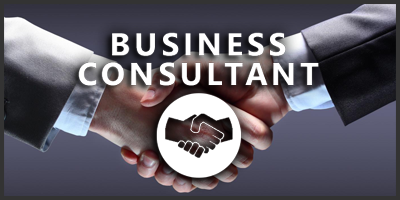
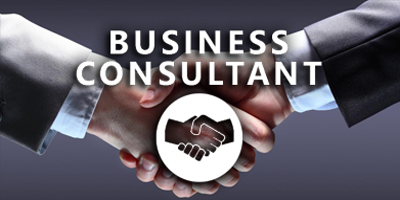
images

diff --git a/index.html b/index.html
@@ -392,22 +392,31 @@
 			<li>
 				<ul class="events-list" data-scrollreveal="enter right after 0.15s over 3s">
 					<li class="event">
-						<strong>WED JAN 20, 2016 - BOWLING BASH</strong>
-							<p class="event-description">ALL DISTRICTS ARE INVITED TO 300 ON FOOTHILL BLVD. IN ARCADIA FOR A FRIENDLY NIGHT OF BOWLING!<p/>
+						<strong>April 13, 2016 *Booked* - Union Station Homeless Services</strong>
+							<p class="event-description">
+							825 E Orange Grove Blvd, Pasadena, CA 91104<br>
+							8am-10:30am<br>
+							Wednesday<br>
+							Group Size 10 people<br>
+							<p/>
 					</li>
 					<li class="event">
-						<strong>SAT JAN 30, 2016 - EVERWELL OLYMPICS</strong>
-							<p class="event-description">IT'S TIME TO COMPETE FOR OUR ANNUAL OLYMPICS!<p/>
+						<strong>May 1st,2016  - Mud factor;  San Bernardino Ca </strong>
+							<p class="event-description">
+							$65 per person<br>
+							No group discount available<br>
+							Adult Wave Time Available<br>
+							1pm, 1:15pm,1:30pm<br>
+						<a href="https://mudfactor.ticketsocket.com/event/SoCal2016" target="_blank">Click here for more info!</a>
+							<p/>
 					</li>
 					<li class="event">
-						<strong>MON FEB 8, 2016 - GUITAR HERO JAMATHON</strong>
-							<p class="event-description">IT'S TIME TO ROCK N' ROLL ALL NIGHT. ARE YOU READY?</p>
-					</li>
-
-
-					<li class="event">
-						<strong>THURS FEB 25, 2016 - SCARY MOVIE NIGHT</strong>
-							<p class="event-description">DON'T BE AFRAID... THERE'S NO SUCH THINGS AS MONSTERS.</p>
+						<strong>June 2016 - “Habitat for humanity” </strong>
+							<p class="event-description">
+							<a href="https://habitat.org " target="_blank">Habitat for Humanity</a><br>
+							No project confirmation yet...<br>
+							<a href="https://sgvhabitat.volunteermatrix.com/" target="_blank">See schedule</a>
+							</p>
 					</li>
 				</ul>
 				<div class = "gallery caption"><h2 data-scrollreveal="enter right after 0.15s over 3s">EVENTS</h2></div>
@@ -452,7 +461,7 @@
 				<img id="image-1" src="images/headshots/Michelle.jpg" width = "256" height = "306"/>
 					<span class="caption simple-caption">
 						<p>Michelle Lee</p>
-						<p>Team Invincible</p>
+						<p>Team Obsessed</p>
 						<div id = "arrow"><img src = "images/arrow.png" width = "25%" height = "15%"></div>
 					</span>
 				</a>
@@ -645,7 +654,7 @@
 
 	<div id="team-description1" class="team-dialog zoom-anim-dialog mfp-hide">
 		<img src = "images/logo.png" width = "200" height = "200">
-		<h3><font face = "Century Gothic">Team Invincible</font></h3>
+		<h3><font face = "Century Gothic">Team Obsessed</font></h3>
 		<h3><font face = "Century Gothic">Michelle Lee</font></h3>
 		<p><font face = "Century Gothic"> I am 29 years old and I’ve been here for 2 years.  I am originally from the Pasadena
 		location.  I’ve previously been an Associate and Coordinator in Training before becoming a District Sales Coordinator 
@@ -1392,15 +1401,15 @@
         <div class="dropdown_container">
         <select id="team" name="team">
           <optgroup label="The Tribe">
-            <option value="Team_Invincible">Michelle Lee - Team Invincible</option>
-            <option value="Team_Mojo">Steve Goldstein - Team Mojo</option>
-			<option value="The_Texas_Rangers">Russell Stanberry - The Texas Rangers</option>
-			<option value="The_Wolf_Pack">Malvin Black - The Wolf Pack</option>
-			<option value="The_Warriors">Axel Dubon - The Warriors</option>
-			<option value="Team_Pipeline">Glen Schecter - The Pipeline</option>
-			<option value="The_District">Elizabeth Ellis - The District</option>
-			<option value="La_Maquina">Brenda Huerta - La Maquina</option>
-			<option value="Dark_Horse">Denny Twigg - The Dark Horse</option>
+            <option value="Michelle_Lee:_Team_Obsessed">Michelle Lee - Team Obsessed</option>
+            <option value="Steve_Goldstein:_Team_Mojo">Steve Goldstein - Team Mojo</option>
+			<option value="Russell_Stanberry:_The_Texas_Rangers">Russell Stanberry - The Texas Rangers</option>
+			<option value="Malvin_Black:_The_Wolf_Pack">Malvin Black - The Wolf Pack</option>
+			<option value="Axel_Dubon:_The_Warriors">Axel Dubon - The Warriors</option>
+			<option value="Glen_Schecter:_Team_Pipeline">Glen Schecter - The Pipeline</option>
+			<option value="Elizabeth_Ellis:_The_District">Elizabeth Ellis - The District</option>
+			<option value="Brenda_Heurta:_La_Maquina">Brenda Huerta - La Maquina</option>
+			<option value="Denny_Twigg:_Dark_Horse">Denny Twigg - The Dark Horse</option>
           </optgroup>
           </select>
           </div>
@@ -1409,18 +1418,13 @@
 
               <label>Interests:</label><br><br>
 
-              <input class= "jobinput" type="checkbox" id="CONSULTANT" value="BUSINESS_BENEFITS_CONSULTANT" name="interest"><label class="light" for="development">Business Consultant</label><br>
-                <input class= "jobinput" type="checkbox" id="MANAGER" value="ACCOUNT_MANAGER" name="interest"><label class="light" for="design">District Manager</label><br>
+              <input class= "jobinput" type="checkbox" id="CONSULTANT" value="BUSINESS_CONSULTANT" name="interest"><label class="light" for="development">Business Consultant</label><br>
+              <input class= "jobinput" type="checkbox" id="MANAGER" value="ACCOUNT_MANAGER" name="interest"><label class="light" for="design">District Manager</label><br>
               <input class= "jobinput" type="checkbox" id="BROKER-CONSULTANT" value="BROKER_CONSULTANT" name="interest"><label class="light" for="business">Broker Consultant</label><br>
-              <input class= "jobinput" type="checkbox" id="INTERNSHIP" value="INTERNSHIP" name="interest"><label class="light" for="business">Internship (Please specify below)<select id="job" name="user_job">
-          <optgroup label="Available Internships" id="intern" name="intern">
-			<option value="">Please select an option...</option>
-            <option id="intern" name="intern" value="Web_Design">Web Development Internship</option>
-            <option id="intern" name="intern" value="HR">Human Resources Internship</option>
-			<option id="intern" name="intern" value="Business_Dev">Business Development Internship</option>
-			<option id="intern" name="intern" value="Graphic_Design">Graphic Design Internship</option>
-          </optgroup>
-          </select></label><br><br>
+              <input class= "jobinput" type="checkbox" id="HR" value="HR_INTERNSHIP" name="interest"><label class="light" for="development">Human Resources Internship</label><br>
+			  <input class= "jobinput" type="checkbox" id="WEB" value="WEB_DEVELOPMENT_INTERNSHIP" name="interest"><label class="light" for="development">Web Development Internship</label><br>
+			  <input class= "jobinput" type="checkbox" id="BUSINESS" value="BUSINESS_DEVELOPMENT_INTERNSHIP" name="interest"><label class="light" for="development">Business Development Internship</label><br>
+			  <input class= "jobinput" type="checkbox" id="GRAPHIC" value="GRAPHIC_DESIGN_INTERNSHIP" name="interest"><label class="light" for="development">Graphic Design Internship</label><br><br><br>
 
                         Title of Resume:<br>
                         <input type="text" name="textline" size="30"><br>

diff --git a/style.css b/style.css
@@ -144,10 +144,12 @@ body {
 }
 	
 	.Splash{
-	width: 100%;
+	width: 200%;
 	height: 100%;
+	right: 30%;
 	z-index: 1;
 	overflow: hidden;
+	
 		}
 
 	.Splash > img{
@@ -226,10 +228,12 @@ body {
 }
 	
 	.Splash{
-	width: 100%;
+	width: 200%;
 	height: 100%;
+	right: 30%;
 	z-index: 1;
 	overflow: hidden;
+	
 		}
 
 	.Splash > img{
@@ -1037,7 +1041,7 @@ width: 500px;
 	}
 	.teampara{
 		
-		height: 212%;
+		height: 215%;
 	    position: relative;
 		background: linear-gradient(
       	rgba(0, 0, 0, 0.7),
@@ -1435,7 +1439,73 @@ width: 500px;
 		display: none;
 	}
 }
+/*NEW  Tablet CSS- Landscape google nexus 7- landscape*/
+@media only screen and (min-device-width : 600px) and (max-device-width : 960px) and (orientation : landscape){
+	
+	
+	.regdir{
+	display: none;
+	}
+	.teampara{
+	height : 150%;
+	    position: relative;
+	}
+	
+	
+	
+}
 
+
+/*NEW  Tablet CSS- Portrait google nexus 7-portrait*/
+@media only screen and (min-device-width : 600px) and (max-device-width : 960px) and (orientation : portrait){
+	
+	
+	.regdir{
+	display: none;
+	}
+	.teampara{
+	height : 100%;
+	    position: relative;
+	}
+	
+	
+	
+}
+
+
+
+/*NEW  Tablet CSS- Landscape google nexus 10-landscape*/
+@media only screen and (min-device-width : 800px) and (max-device-width : 1280px) and (orientation : landscape){
+	
+	
+	.regdir{
+	display: none;
+	}
+	.teampara{
+	/*height : 150%;*/
+	    position: relative;
+	}
+	
+	
+	
+}
+
+
+/*NEW  Tablet CSS- Portrait google nexus 10-portrait*/
+@media only screen and (min-device-width : 800px) and (max-device-width : 1280px) and (orientation : portrait){
+	
+	
+	.regdir{
+	display: none;
+	}
+	.teampara{
+	height : 70%;
+	    position: relative;
+	}
+	
+	
+	
+}
  
 /*Mobile CSS- Landscape*/
 @media only screen and (min-device-width : 320px) and (max-device-width : 568px) and (orientation : landscape){
@@ -1481,34 +1551,58 @@ h2.position-caption {
 
 .view2 .job-image1 {
 	content:url("images/Job-images/1a.png");
+	border-style: solid;
+    border-width: 4px;
+	border-color: #333;
 }
 
 .view2 .job-image2 {
 	content:url("images/Job-images/2a.png");
+	border-style: solid;
+    border-width: 4px;
+	border-color: #333;
 }
 
 .view2 .job-image3 {
 	content:url("images/Job-images/3a.png");
+	border-style: solid;
+    border-width: 4px;
+	border-color: #333;
 }
 
 .view2 .job-image4 {
 	content:url("images/Job-images/4a.png");
+	border-style: solid;
+    border-width: 4px;
+	border-color: #333;
 }
 
 .view2 .job-background1 {
 	content:url("images/Job-images/1.png");
+	border-style: solid;
+    border-width: 4px;
+	border-color: #333;
 }
 
 .view2 .job-background2 {
 	content:url("images/Job-images/2.png");
+	border-style: solid;
+    border-width: 4px;
+	border-color: #333;
 }
 
 .view2 .job-background3 {
 	content:url("images/Job-images/3.png");
+	border-style: solid;
+    border-width: 4px;
+	border-color: #333;
 }
 
 .view2 .job-background4 {
 	content:url("images/Job-images/4.png");
+	border-style: solid;
+    border-width: 4px;
+	border-color: #333;
 }
 
 .view .alt-job-image1 {
@@ -1899,7 +1993,7 @@ a.btn-apply2:link {
 
 .caption-hover .blur{
 	height: 300px;
-	width: 400px;
+	width: 408px;
 	z-index: 5;
 	background-color: #333333;
 	position: absolute;
@@ -2226,7 +2320,7 @@ padding-top: 10px;
 }
 
 .contact-us-form > form > textarea {
-  width: 250px;
+  width: 260px;
   margin-bottom: 10px;
   padding: 5px;
   border-left: 0px;
@@ -2275,23 +2369,42 @@ html {
 	display:none;
 }
 .contact-us-form{
-	margin-left: -70px;
+	margin-left: -60px;
 }
 .contact-us-form > form > input {
-  width: 250px;
+  width: 270px;
   margin-bottom: 10px;
   padding: 5px;
 }
 
 .contact-us-form > form > textarea {
-  width: 250px;
+  width: 270px;
   margin-bottom: 10px;
   padding: 5px;
 }
 .contact-us-images {
   padding-right: 200px;
 }
+.facebook{
+	z-index: 20;
+	margin-left: -430px;
+	margin-top: 195px;
+	margin-bottom: -600px;
+}
 
+.twitter{
+	z-index: 20;
+	margin-left: -328px;
+	margin-top: 510px;
+	margin-bottom: -200px;
+}
+.instagram{
+	z-index: 20;
+	margin-left: -222px;
+	margin-top: 110px;
+	margin-bottom: -80px;
+	
+}
 }
 @media only screen and (min-width: 375px) and (max-width: 767px) and (orientation:landscape){
 
